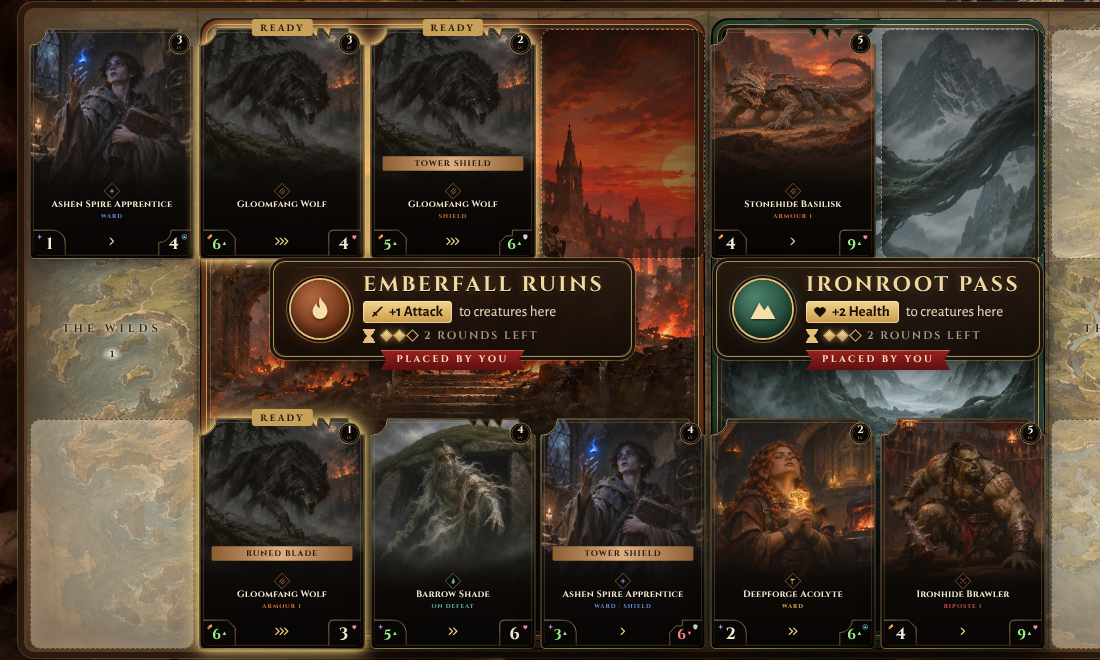
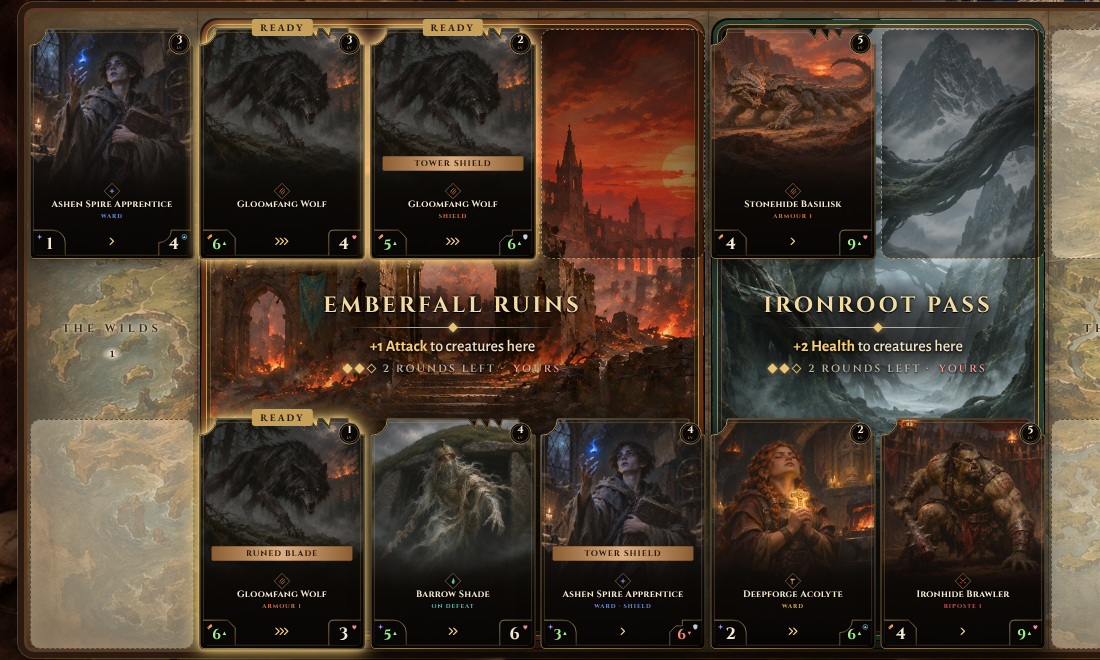
Prime Summons approved with Elliott's changes (+1/+1 Prime, +1 Renown, every other card on the curve); Location tiles label v2 (no box, no emblem), approved
Claude-Session: https://claude.ai/code/session_01PfomRVhR58QKPraFKdKkEq

Changed region(s): [[0.2164, 0.3636, 0.5873, 0.5758], [0.6491, 0.3636, 0.9582, 0.5758]]

diff --git a/docs/mockups/locations-v1/mock.css b/docs/mockups/locations-v1/mock.css
@@ -11,32 +11,19 @@
 .map .loc .pennant.mine { background: linear-gradient(#8f1d1d,#5a0f10); } .map .loc .pennant.theirs { background: linear-gradient(#24477e,#132a52); }
 .map .loc .pennant i { position:absolute; left:0; right:0; top:9px; text-align:center; color:#f1d9a0; font:700 13px Cinzel,serif; }
 .map .loc .pennant::after{content:'';position:absolute;inset:0 0 auto 0;height:5px;background:linear-gradient(#e6c47a,#9b7434);}
-.map .loc-label-wrap { top: 252px; z-index:5; }
+.map .loc-label-wrap { top: 266px; z-index:5; }
 .map .loc-label { display:none; }
-.lp { position:relative; display:flex; align-items:center; gap:14px; pointer-events:auto; padding:12px 26px 12px 16px; min-width:0; max-width:calc(100% - 20px);
-  background: linear-gradient(180deg, rgba(38,24,14,.97), rgba(20,12,7,.97)); border-radius:10px;
-  box-shadow: 0 0 0 1px rgba(0,0,0,.8), 0 0 0 2px rgba(226,190,120,.7), 0 0 0 5px rgba(20,12,7,.9), 0 0 0 6px rgba(226,190,120,.3), 0 14px 26px rgba(0,0,0,.65); }
-.lp::before { content:''; position:absolute; left:8px; right:8px; top:4px; height:1px; background:linear-gradient(90deg,transparent,rgba(226,190,120,.55),transparent); }
-.lp-seal { flex:none; width:58px; height:58px; border-radius:50%; display:grid; place-items:center;
-  background: radial-gradient(circle at 35% 30%, color-mix(in srgb, var(--tint) 85%, #fff 15%), color-mix(in srgb, var(--tint) 70%, #000) 70%);
-  box-shadow: 0 0 0 2px #e2be78, 0 0 0 4px #1a0f08, 0 0 0 5px rgba(226,190,120,.45), inset 0 -6px 12px rgba(0,0,0,.45), 0 0 18px color-mix(in srgb, var(--tint) 60%, transparent); }
-.lp-seal svg { width:30px; height:30px; fill:#f6dfa6; filter: drop-shadow(0 1px 1px rgba(0,0,0,.6)); }
-.lp-body { display:flex; flex-direction:column; gap:5px; min-width:0; }
-.lp-name { font:700 21px/1 Cinzel,serif; letter-spacing:2.5px; color:#f1d9a0; text-shadow:0 1px 0 #000, 0 0 10px rgba(241,190,100,.25); white-space:nowrap; }
-.lp-effect { font:400 15px/1.15 'Alegreya Sans',sans-serif; color:#e8dcc0; white-space:nowrap; display:flex; align-items:center; gap:7px; }
-.lp-effect b { display:inline-flex; align-items:center; gap:5px; padding:2px 9px 2px 7px; border-radius:4px; font:700 15px 'Alegreya Sans',sans-serif; color:#1a0f08;
-  background: linear-gradient(#f3d58f,#c99a4a); box-shadow: inset 0 0 0 1px rgba(255,240,200,.6); }
-.lp-effect b svg { width:14px; height:14px; fill:#1a0f08; }
-.lp-time { display:flex; align-items:center; gap:7px; font:600 11px Cinzel,serif; letter-spacing:2px; color:rgba(232,220,192,.7); white-space:nowrap; }
-.lp-time .pips { display:flex; gap:4px; } .lp-time .pips i { width:9px; height:9px; transform:rotate(45deg); border:1px solid #e2be78; }
-.lp-time .pips i.on { background: linear-gradient(135deg,#f6dfa6,#c99a4a); box-shadow:0 0 6px rgba(246,200,110,.6); }
-.lp-time svg { width:12px; height:14px; fill:#e2be78; }
-/* empty spaces on a tile: dark glass so the painting reads as ground */
-.map .slot-mock { position:absolute; border-radius:10px; z-index:2; pointer-events:none;
-  background: rgba(12,8,5,.30); border:1px dashed rgba(240,214,160,.45); box-shadow: inset 0 0 24px rgba(0,0,0,.35); }
-.map .wilds-mock-hide { display:none; }
-
-.map .empty-slot.on-tile { background: rgba(12,8,5,.34) !important; border:1px dashed rgba(240,214,160,.5) !important; box-shadow: inset 0 0 24px rgba(0,0,0,.4); border-radius:10px; }
-.lp-owner { position:absolute; left:50%; bottom:-15px; transform:translateX(-50%); padding:3px 16px 4px; font:700 9.5px Cinzel,serif; letter-spacing:2.5px; color:#f6e2b0; white-space:nowrap;
-  clip-path: polygon(0 0,100% 0,96% 50%,100% 100%,0 100%,4% 50%); box-shadow: inset 0 1px 0 rgba(255,220,150,.4); }
-.lp-owner.mine { background: linear-gradient(#9a2020,#5e1011); } .lp-owner.theirs { background: linear-gradient(#2a5290,#16305c); }
+.lp { position:relative; display:flex; flex-direction:column; align-items:center; gap:6px; pointer-events:auto; padding:18px 40px 16px; max-width:100%;
+  background: radial-gradient(ellipse 50% 50% at 50% 50%, rgba(8,5,3,.78) 0%, rgba(8,5,3,.55) 55%, rgba(8,5,3,0) 100%); }
+.lp-name { font:700 22px/1 Cinzel,serif; letter-spacing:3px; color:#f3dca2; white-space:nowrap;
+  text-shadow: 0 1px 0 #000, 0 0 3px rgba(0,0,0,.9), 0 0 16px rgba(0,0,0,.8); }
+.lp-rule { width:min(220px,80%); height:9px; position:relative; }
+.lp-rule::before { content:''; position:absolute; left:0; right:0; top:4px; height:1px; background:linear-gradient(90deg,transparent,rgba(232,196,122,.85) 30%,rgba(232,196,122,.85) 70%,transparent); }
+.lp-rule::after { content:''; position:absolute; left:50%; top:1px; width:7px; height:7px; transform:translateX(-50%) rotate(45deg); background:#e8c47a; box-shadow:0 0 6px rgba(232,196,122,.8); }
+.lp-effect { font:500 16px/1.1 'Alegreya Sans',sans-serif; color:#efe4c8; white-space:nowrap; text-shadow:0 1px 2px #000, 0 0 10px rgba(0,0,0,.9); }
+.lp-effect b { color:#f6cf74; font-weight:700; }
+.lp-time { display:flex; align-items:center; gap:8px; font:600 10.5px Cinzel,serif; letter-spacing:2.2px; color:rgba(239,228,200,.78); white-space:nowrap; text-shadow:0 1px 2px #000; }
+.lp-time .pips { display:flex; gap:5px; } .lp-time .pips i { width:7px; height:7px; transform:rotate(45deg); border:1px solid rgba(232,196,122,.9); }
+.lp-time .pips i.on { background:#e8c47a; box-shadow:0 0 5px rgba(246,200,110,.7); }
+.lp-time .own.mine { color:#ff9b8f; } .lp-time .own.theirs { color:#9cc0ff; }
+.map .empty-slot.on-tile { background: rgba(12,8,5,.30) !important; border:1px dashed rgba(240,214,160,.5) !important; box-shadow: inset 0 0 24px rgba(0,0,0,.4); border-radius:10px; }

diff --git a/docs/mockups/prime-v1/series.html b/docs/mockups/prime-v1/series.html
@@ -49,14 +49,14 @@ h1{font:700 30px Cinzel,serif;letter-spacing:6px;color:#f1d9a0;margin:0;position
 .legend b{color:#f1d9a0}
 </style></head><body>
 <h1>PRIME SUMMONS · ONE SERIES, SIX ROUNDS</h1>
-<div class="sub">Oathsworn Recruit series · Mid · Prime in Round 4 · proposed stats. Every copy of a series is at the same Level each Round, so its Prime is the same Round for everyone.</div>
+<div class="sub">Oathsworn Recruit series · Mid · Prime in Round 4 · approved stats. Every copy of a series is at the same Level each Round, so its Prime is the same Round for everyone.</div>
 <div class="row" id="row"></div>
 <div class="panel"><h2>THE SERIES CURVE · HOVER PREVIEW AND CODEX</h2><div class="hint">Shown when you hover a creature in hand or the Market, and under each series in the Codex. The bar is value against the curve for that Level: full on the curve, overflowing gold at Prime.</div><div class="strip" id="strip"></div></div>
 <div class="legend">
 <h3>READING IT</h3>
 <p><b>Rising</b> (silver tag) shows the Round its Prime arrives: hold it with Retain, or summon it early for tempo.</p>
-<p><b>Prime</b> (gold tag, foil frame, gold glow in hand) is the best value the series ever has: +3 stats on the curve, and any “Prime:” ability works.</p>
-<p><b>Waning</b> (muted tag) is past its best: a point below the curve, but its elder form brings a veteran’s ability.</p>
+<p><b>Prime</b> (gold tag, foil frame, gold glow in hand) is the series at its best: +1 Attack and +1 Health above the curve, +1 Renown when summoned, and any “Prime:” ability works.</p>
+<p><b>Waning</b> (muted tag) is past its best but still worth its Energy: on the curve, with its elder form’s ability.</p>
 <p>From Round 6 every card sits at its last Level for the rest of the match, so a series with its Prime last is a late-game threat, and one that peaks early is an opener.</p>
 </div>
 <script type="module">
@@ -67,8 +67,8 @@ defineCards(CARDS);
 const def = cardDef('oathsworn-recruit');
 const P = [
   {r:1,L:2,st:'Rising',form:'recruit',a:2,h:2},{r:2,L:3,st:'Rising',form:'recruit',a:2,h:3},
-  {r:3,L:4,st:'Rising',form:'captain',a:3,h:3},{r:4,L:5,st:'Prime',form:'captain',a:5,h:5},
-  {r:5,L:6,st:'Waning',form:'veteran',a:3,h:3},{r:6,L:7,st:'Waning',form:'veteran',a:3,h:4}];
+  {r:3,L:4,st:'Rising',form:'captain',a:3,h:3},{r:4,L:5,st:'Prime',form:'captain',a:4,h:5},
+  {r:5,L:6,st:'Waning',form:'veteran',a:3,h:4},{r:6,L:7,st:'Waning',form:'veteran',a:4,h:4}];
 const star='<svg viewBox="0 0 24 24"><path d="M12 2l3 7h7l-5.5 4.5 2 7.5L12 16.5 5.5 21l2-7.5L2 9h7z"/></svg>';
 const up='<svg viewBox="0 0 24 24"><path d="M12 4l9 12H3z"/></svg>';
 const down='<svg viewBox="0 0 24 24"><path d="M12 20 3 8h18z"/></svg>';

diff --git a/docs/12-prime-summons.md b/docs/12-prime-summons.md
@@ -1,6 +1,6 @@
 # Prime Summons and the new stat curve (proposal)
 
-**Status:** proposed by the design chat, 16 November 2026, from Elliott's idea. **Not yet approved.** Nothing here changes the rulebook until Elliott approves it; then it moves into docs/01-rulebook.md and docs/cards.json.
+**Status: approved (Elliott, 16 November 2026)** with his changes: a subtler Prime (+1 Attack, +1 Health), every non-Prime card worth its Energy, +1 Renown for a Prime summon, the name Prime kept, and no pace changes yet (match length will be monitored later). The build moves these rules into docs/01-rulebook.md and the cards into docs/cards.json.
 
 Mockup: `docs/mockups/prime-v1/series.html` (and `.png`).
 
@@ -19,18 +19,20 @@ Because a card's Level off the battlefield is set by the Round (rulebook section
 
 1. **Prime.** Each Character and Monster series names one Prime Level. The card's stage is Rising below it, Prime at it and Waning above it.
 2. **Three forms per series**, two Levels each: young (Levels 1–2 of the series), grown (3–4) and elder (5–6). The Prime can fall in any form: a prodigy peaks young, a late bloomer peaks old.
-3. **Stats follow one curve** (section 3). Prime is 3 points above it; Waning is 1 below.
+3. **Stats follow one curve** (section 3). Rising and Waning cards sit exactly on it; the Prime Level is +1 Attack and +1 Health above it.
 4. **"Prime:" abilities** work only if the creature was summoned at its Prime Level (for example "Prime: On Summon: Draw 2 cards").
 5. **New trigger, On Retain:** resolves when you Retain the card.
 6. **New keyword, Patient:** Retaining this card doesn't reduce your next draw.
-7. **Legendary cards and Legendary Creatures** are always Prime.
-8. **Foil** moves to the Prime Level (plus Legendaries), replacing "final form at its top Level".
-9. **Nothing else changes:** costs (`ceil(Level / 2)`), Levels by Round, the snapshot on summon, Retain's cost, combat and Renown.
+7. **Summoning at Prime gives +1 Renown** (increased by half in the Last Battle, like all Renown).
+8. **Legendary cards and Legendary Creatures** are always Prime.
+9. **Foil** moves to the Prime Level (plus Legendaries), replacing "final form at its top Level".
+10. **Nothing else changes:** costs (`ceil(Level / 2)`), Levels by Round, the snapshot on summon, Retain's cost, combat and Renown.
 
 ## 3. The stat curve (closer to Hearthstone)
 
 - **On the curve,** a creature's Attack plus Health is **Level + 2**: Level 1 = 3, Level 4 = 6, Level 8 = 10. By Energy that's about 3 for 1, 5–6 for 2, 7–8 for 3 and 9–10 for 4, Hearthstone's familiar "2 × cost + 1".
-- **Prime** +3, **Waning** −1. **One ability** (a keyword or trigger) costs 1 point.
+- **Every non-Prime card is exactly on the curve,** counting its abilities: one ability (a keyword or a trigger; Shield and Ward are free) costs 1 point. So every Level is worth its Energy.
+- **Prime** is +1 Attack and +1 Health on top, plus +1 Renown and any "Prime:" ability. A Prime's own "Prime:" ability is free; its other abilities cost as usual.
 - **The split by Speed:** Swift leans to Attack, Steady is even, Slow leans to Health.
 - **Results:** most creatures have 1–6 in each stat, so 1 point decides fights. Firebolt, Flask of Wildfire and On Summon damage kill things again. Typical Health falls from 6–11 to 2–6.
 - **Legendaries:** The Ashen Wyrm 6 / 6 (cost 5), Aldric the Unbroken 6 / 6 with Shield and Armour 1.
@@ -50,47 +52,47 @@ Primes across the deck: Round 1 (1 series), Round 2 (2), Round 3 (1), Round 4 (3
 
 ## 5. How it shows
 
-- **On the card:** a small tag under the Level well. Rising: silver, "▲ PRIME · ROUND 4". Prime: gold, "★ PRIME", the foil frame, and a gold glow in hand. Waning: muted, "▼ PAST PRIME".
+- **On the card:** a small tag under the Level well. Rising: silver, "▲ PRIME · ROUND 4". Prime: gold, "★ PRIME", the foil frame, and a gold glow in hand. Waning: muted, "▼ PAST PRIME". (Rising and Waning are names for the build and docs; on cards only Prime is named.)
 - **Hover preview and Codex:** the series curve strip, six cells (Round, form, Attack / Health, Energy, Level, a value bar against the curve), with the Prime in gold and "NOW" over this Round.
 - **Summoning at Prime** gets its own short moment (gold burst on the card and the Level well, a distinct sound in V4).
 - **At Dusk:** a card that reaches its Prime next Round shows "Prime next Round" on its Retain button.
 
-## 6. Every series, proposed
+## 6. Every series
 
-Numbers come from the rules in section 3; the build may move a stat by 1 where a card plays badly, and lists any change.
+Numbers come from the rules in section 3; the build may move a stat by 1 between Attack and Health where a card plays badly (never its total), and lists any change.
 
 **cinderwick-prodigy** · Gnome Wizard (new) · Light · Swift · Arcane · **Prime in Round 1**
 
 | Round | Level | Energy | Stage | Form | Attack / Health | Abilities |
 |---|---|---|---|---|---|---|
-| 1 | 1 | 1 | **Prime** | Cinderwick Prodigy | 3 / 3 | Prime: On Summon: 2 damage to an enemy creature. |
-| 2 | 2 | 1 | Waning | Cinderwick Prodigy | 2 / 1 | Prime: On Summon: 2 damage to an enemy creature. |
-| 3 | 3 | 2 | Waning | Cinderwick Adept | 2 / 2 | – |
-| 4 | 4 | 2 | Waning | Cinderwick Adept | 3 / 2 | – |
-| 5 | 5 | 3 | Waning | Cinderwick Hermit | 3 / 2 | On Summon: 1 damage to an enemy creature. |
-| 6 | 6 | 3 | Waning | Cinderwick Hermit | 3 / 3 | On Summon: 1 damage to an enemy creature. |
+| 1 | 1 | 1 | **Prime** | Cinderwick Prodigy | 3 / 2 | Prime: On Summon: 2 damage to an enemy creature. |
+| 2 | 2 | 1 | Waning | Cinderwick Prodigy | 2 / 2 | Prime: On Summon: 2 damage to an enemy creature. |
+| 3 | 3 | 2 | Waning | Cinderwick Adept | 3 / 2 | – |
+| 4 | 4 | 2 | Waning | Cinderwick Adept | 3 / 3 | – |
+| 5 | 5 | 3 | Waning | Cinderwick Hermit | 3 / 3 | On Summon: 1 damage to an enemy creature. |
+| 6 | 6 | 3 | Waning | Cinderwick Hermit | 4 / 3 | On Summon: 1 damage to an enemy creature. |
 
 **hollowfoot-cutpurse** · Halfling Rogue · Light · Swift · Martial · **Prime in Round 2**
 
 | Round | Level | Energy | Stage | Form | Attack / Health | Abilities |
 |---|---|---|---|---|---|---|
 | 1 | 1 | 1 | Rising | Hollowfoot Cutpurse | 1 / 1 | Ambush |
-| 2 | 2 | 1 | **Prime** | Hollowfoot Cutpurse | 3 / 3 | Ambush |
-| 3 | 3 | 2 | Waning | Hollowfoot Knifemaster | 2 / 1 | Ambush |
-| 4 | 4 | 2 | Waning | Hollowfoot Knifemaster | 2 / 2 | Ambush |
-| 5 | 5 | 3 | Waning | Hollowfoot Fence | 3 / 2 | On Retain: gain 1 Gold. |
-| 6 | 6 | 3 | Waning | Hollowfoot Fence | 3 / 3 | On Retain: gain 1 Gold. |
+| 2 | 2 | 1 | **Prime** | Hollowfoot Cutpurse | 3 / 2 | Ambush |
+| 3 | 3 | 2 | Waning | Hollowfoot Knifemaster | 2 / 2 | Ambush |
+| 4 | 4 | 2 | Waning | Hollowfoot Knifemaster | 3 / 2 | Ambush |
+| 5 | 5 | 3 | Waning | Hollowfoot Fence | 3 / 3 | On Retain: gain 1 Gold. |
+| 6 | 6 | 3 | Waning | Hollowfoot Fence | 4 / 3 | On Retain: gain 1 Gold. |
 
 **ironhide-brawler** · Orc Fighter · Heavy · Slow · Martial · **Prime in Round 2**
 
 | Round | Level | Energy | Stage | Form | Attack / Health | Abilities |
 |---|---|---|---|---|---|---|
 | 1 | 3 | 2 | Rising | Ironhide Brawler | 1 / 3 | Riposte 1 |
-| 2 | 4 | 2 | **Prime** | Ironhide Brawler | 3 / 5 | Riposte 1 |
-| 3 | 5 | 3 | Waning | Ironhide Champion | 2 / 3 | Riposte 2 |
-| 4 | 6 | 3 | Waning | Ironhide Champion | 2 / 4 | Riposte 2 |
-| 5 | 7 | 4 | Waning | Ironhide Warchief | 3 / 4 | Riposte 2 |
-| 6 | 8 | 4 | Waning | Ironhide Warchief | 3 / 5 | Riposte 2 |
+| 2 | 4 | 2 | **Prime** | Ironhide Brawler | 3 / 4 | Riposte 1 |
+| 3 | 5 | 3 | Waning | Ironhide Champion | 2 / 4 | Riposte 2 |
+| 4 | 6 | 3 | Waning | Ironhide Champion | 3 / 4 | Riposte 2 |
+| 5 | 7 | 4 | Waning | Ironhide Warchief | 3 / 5 | Riposte 2 |
+| 6 | 8 | 4 | Waning | Ironhide Warchief | 4 / 5 | Riposte 2 |
 
 **gloomfang-wolf** · Beast · Light · Swift · Martial · **Prime in Round 3**
 
@@ -98,10 +100,10 @@ Numbers come from the rules in section 3; the build may move a stat by 1 where a
 |---|---|---|---|---|---|---|
 | 1 | 1 | 1 | Rising | Gloomfang Whelp | 2 / 1 | – |
 | 2 | 2 | 1 | Rising | Gloomfang Whelp | 2 / 2 | – |
-| 3 | 3 | 2 | **Prime** | Gloomfang Wolf | 4 / 4 | – |
-| 4 | 4 | 2 | Waning | Gloomfang Wolf | 3 / 2 | – |
-| 5 | 5 | 3 | Waning | Gloomfang Alpha | 3 / 2 | Ambush |
-| 6 | 6 | 3 | Waning | Gloomfang Alpha | 3 / 3 | Ambush |
+| 3 | 3 | 2 | **Prime** | Gloomfang Wolf | 4 / 3 | – |
+| 4 | 4 | 2 | Waning | Gloomfang Wolf | 3 / 3 | – |
+| 5 | 5 | 3 | Waning | Gloomfang Alpha | 3 / 3 | Ambush |
+| 6 | 6 | 3 | Waning | Gloomfang Alpha | 4 / 3 | Ambush |
 
 **oathsworn-recruit** · Human Fighter · Mid · Steady · Martial · Shield · **Prime in Round 4**
 
@@ -110,9 +112,9 @@ Numbers come from the rules in section 3; the build may move a stat by 1 where a
 | 1 | 2 | 1 | Rising | Oathsworn Recruit | 2 / 2 | – |
 | 2 | 3 | 2 | Rising | Oathsworn Recruit | 2 / 3 | – |
 | 3 | 4 | 2 | Rising | Oathsworn Captain | 3 / 3 | – |
-| 4 | 5 | 3 | **Prime** | Oathsworn Captain | 5 / 5 | – |
-| 5 | 6 | 3 | Waning | Oathsworn Veteran | 3 / 3 | Armour 1 |
-| 6 | 7 | 4 | Waning | Oathsworn Veteran | 3 / 4 | Armour 1 |
+| 4 | 5 | 3 | **Prime** | Oathsworn Captain | 4 / 5 | – |
+| 5 | 6 | 3 | Waning | Oathsworn Veteran | 3 / 4 | Armour 1 |
+| 6 | 7 | 4 | Waning | Oathsworn Veteran | 4 / 4 | Armour 1 |
 
 **ashen-spire-apprentice** · Human Wizard · Heavy · Slow · Arcane · Ward · **Prime in Round 4**
 
@@ -121,9 +123,9 @@ Numbers come from the rules in section 3; the build may move a stat by 1 where a
 | 1 | 3 | 2 | Rising | Ashen Spire Apprentice | 1 / 3 | On Summon: 1 damage to an enemy creature. |
 | 2 | 4 | 2 | Rising | Ashen Spire Apprentice | 2 / 3 | On Summon: 1 damage to an enemy creature. |
 | 3 | 5 | 3 | Rising | Spire Magus | 2 / 4 | On Summon: 2 damage to an enemy creature. |
-| 4 | 6 | 3 | **Prime** | Spire Magus | 4 / 6 | On Summon: 2 damage to an enemy creature. |
-| 5 | 7 | 4 | Waning | Archmagus of the Ashen Spire | 3 / 4 | On Summon: 3 damage to an enemy creature. |
-| 6 | 8 | 4 | Waning | Archmagus of the Ashen Spire | 3 / 5 | On Summon: 3 damage to an enemy creature. |
+| 4 | 6 | 3 | **Prime** | Spire Magus | 4 / 5 | On Summon: 2 damage to an enemy creature. |
+| 5 | 7 | 4 | Waning | Archmagus of the Ashen Spire | 3 / 5 | On Summon: 3 damage to an enemy creature. |
+| 6 | 8 | 4 | Waning | Archmagus of the Ashen Spire | 4 / 5 | On Summon: 3 damage to an enemy creature. |
 
 **stonehide-basilisk** · Beast · Heavy · Slow · Martial · **Prime in Round 4**
 
@@ -132,9 +134,9 @@ Numbers come from the rules in section 3; the build may move a stat by 1 where a
 | 1 | 3 | 2 | Rising | Stonehide Hatchling | 2 / 3 | – |
 | 2 | 4 | 2 | Rising | Stonehide Hatchling | 2 / 4 | – |
 | 3 | 5 | 3 | Rising | Stonehide Basilisk | 2 / 4 | Armour 1 |
-| 4 | 6 | 3 | **Prime** | Stonehide Basilisk | 4 / 6 | Armour 1 |
-| 5 | 7 | 4 | Waning | Elder Stonehide | 3 / 4 | Armour 1 |
-| 6 | 8 | 4 | Waning | Elder Stonehide | 3 / 5 | Armour 1 |
+| 4 | 6 | 3 | **Prime** | Stonehide Basilisk | 4 / 5 | Armour 1 |
+| 5 | 7 | 4 | Waning | Elder Stonehide | 3 / 5 | Armour 1 |
+| 6 | 8 | 4 | Waning | Elder Stonehide | 4 / 5 | Armour 1 |
 
 **deepforge-acolyte** · Dwarf Cleric · Mid · Steady · Arcane · Ward · **Prime in Round 5**
 
@@ -144,8 +146,8 @@ Numbers come from the rules in section 3; the build may move a stat by 1 where a
 | 2 | 3 | 2 | Rising | Deepforge Acolyte | 2 / 2 | On Summon: Heal 2 to one of your creatures. |
 | 3 | 4 | 2 | Rising | Deepforge Priest | 2 / 3 | On Summon: Heal 3 to each of your creatures in its Location. |
 | 4 | 5 | 3 | Rising | Deepforge Priest | 3 / 3 | On Summon: Heal 3 to each of your creatures in its Location. |
-| 5 | 6 | 3 | **Prime** | Deepforge High Priest | 5 / 5 | On Summon: Heal 3 to each of your creatures in its Location. |
-| 6 | 7 | 4 | Waning | Deepforge High Priest | 3 / 4 | On Summon: Heal 3 to each of your creatures in its Location. |
+| 5 | 6 | 3 | **Prime** | Deepforge High Priest | 4 / 5 | On Summon: Heal 3 to each of your creatures in its Location. |
+| 6 | 7 | 4 | Waning | Deepforge High Priest | 4 / 4 | On Summon: Heal 3 to each of your creatures in its Location. |
 
 **barrow-shade** · Undead · Mid · Steady · Arcane · **Prime in Round 5**
 
@@ -155,18 +157,18 @@ Numbers come from the rules in section 3; the build may move a stat by 1 where a
 | 2 | 3 | 2 | Rising | Barrow Wisp | 2 / 3 | On Defeat: 1 damage to the enemy across from it. |
 | 3 | 4 | 2 | Rising | Barrow Shade | 2 / 3 | On Defeat: 2 damage to the enemy across from it. |
 | 4 | 5 | 3 | Rising | Barrow Shade | 3 / 3 | On Defeat: 2 damage to the enemy across from it. |
-| 5 | 6 | 3 | **Prime** | Barrow Lord | 5 / 5 | On Defeat: 3 damage to the enemy across from it. |
-| 6 | 7 | 4 | Waning | Barrow Lord | 3 / 4 | On Defeat: 3 damage to the enemy across from it. |
+| 5 | 6 | 3 | **Prime** | Barrow Lord | 4 / 5 | On Defeat: 3 damage to the enemy across from it. |
+| 6 | 7 | 4 | Waning | Barrow Lord | 4 / 4 | On Defeat: 3 damage to the enemy across from it. |
 
 **duskmere-oracle** · Elf Seer (new) · Mid · Slow · Arcane · Ward · **Prime in Round 5**
 
 | Round | Level | Energy | Stage | Form | Attack / Health | Abilities |
 |---|---|---|---|---|---|---|
-| 1 | 2 | 1 | Rising | Duskmere Novice | 1 / 3 | Patient |
-| 2 | 3 | 2 | Rising | Duskmere Novice | 2 / 3 | Patient |
-| 3 | 4 | 2 | Rising | Duskmere Oracle | 2 / 4 | Patient |
-| 4 | 5 | 3 | Rising | Duskmere Oracle | 3 / 4 | Patient |
-| 5 | 6 | 3 | **Prime** | Duskmere Sibyl | 5 / 6 | Patient. Prime: On Summon: Draw 2 cards. |
+| 1 | 2 | 1 | Rising | Duskmere Novice | 1 / 2 | Patient |
+| 2 | 3 | 2 | Rising | Duskmere Novice | 1 / 3 | Patient |
+| 3 | 4 | 2 | Rising | Duskmere Oracle | 2 / 3 | Patient |
+| 4 | 5 | 3 | Rising | Duskmere Oracle | 2 / 4 | Patient |
+| 5 | 6 | 3 | **Prime** | Duskmere Sibyl | 4 / 5 | Patient. Prime: On Summon: Draw 2 cards. |
 | 6 | 7 | 4 | Waning | Duskmere Sibyl | 3 / 5 | Patient. Prime: On Summon: Draw 2 cards. |
 
 **thornwood-scout** · Elf Ranger · Light · Swift · Martial · **Prime in Round 6**
@@ -178,7 +180,7 @@ Numbers come from the rules in section 3; the build may move a stat by 1 where a
 | 3 | 3 | 2 | Rising | Thornwood Pathfinder | 2 / 2 | On Summon: Draw 1 card. |
 | 4 | 4 | 2 | Rising | Thornwood Pathfinder | 3 / 2 | On Summon: Draw 1 card. |
 | 5 | 5 | 3 | Rising | Thornwood Warden | 3 / 3 | On Summon: Draw 1 card. |
-| 6 | 6 | 3 | **Prime** | Thornwood Warden | 5 / 5 | On Summon: Draw 1 card. |
+| 6 | 6 | 3 | **Prime** | Thornwood Warden | 5 / 4 | On Summon: Draw 1 card. |
 
 **mossback-ancient** · Treant (new Kind) · Heavy · Slow · Martial · Shield · **Prime in Round 6**
 
@@ -188,15 +190,17 @@ Numbers come from the rules in section 3; the build may move a stat by 1 where a
 | 2 | 4 | 2 | Rising | Mossback Sapling | 2 / 4 | – |
 | 3 | 5 | 3 | Rising | Mossback Treant | 3 / 4 | – |
 | 4 | 6 | 3 | Rising | Mossback Treant | 3 / 5 | – |
-| 5 | 7 | 4 | Rising | Mossback Ancient | 4 / 5 | Patient. Prime: On Summon: 1 damage to each enemy creature in its Location. |
-| 6 | 8 | 4 | **Prime** | Mossback Ancient | 6 / 7 | Patient. Prime: On Summon: 1 damage to each enemy creature in its Location. |
+| 5 | 7 | 4 | Rising | Mossback Ancient | 3 / 5 | Patient. Prime: On Summon: 1 damage to each enemy creature in its Location. |
+| 6 | 8 | 4 | **Prime** | Mossback Ancient | 5 / 6 | Patient. Prime: On Summon: 1 damage to each enemy creature in its Location. |
+
 ## 7. Art needed
 
 17 new illustrations, prompts in `docs/13-prime-art-prompts.md`. Existing art is reused where the forms line up; the rest show Art Pending until they arrive.
 
-## 8. Open questions for Elliott
+## 8. Decided (16 November 2026)
 
-1. Names: **Prime / Rising / Waning**, **Patient**, **On Retain**, "Prime:" abilities. Alternatives: Peak or Heyday for Prime; Seasoned for Waning.
-2. **Waning at −1** (gentle, with elder abilities) or −2 (sharper peaks)?
-3. **Should a Prime summon also give Renown** (for example +1), or is the value enough?
-4. **Pace:** if matches run longer with the smaller stats, change Renown values, the Last Battle trigger, or leave it?
+1. Names: **Prime** kept; Rising and Waning, Patient and On Retain used for now.
+2. The Prime boon is subtle: +1 Attack, +1 Health.
+3. Every non-Prime card is on the curve, abilities included.
+4. A Prime summon gives +1 Renown.
+5. Pace: no changes; match length is measured and monitored later.

diff --git a/docs/mockups/locations-v1/README.md b/docs/mockups/locations-v1/README.md
@@ -7,6 +7,8 @@ Elliott's feedback: Locations should look like tiles laid on the overworld map, 
 
 **The tile:** the Location's art at full strength, clipped to a rounded tile with a dark edge, a brass hairline and an outer rim in the Location's colour, a darker base edge so it sits raised on the map, and a drop shadow. A soft vignette at the top and bottom keeps the cards readable. Empty spaces on a tile are dark glass with a dashed brass outline.
 
-**The plaque:** a dark leather panel with brass rims. A round seal in the Location's colour carries its emblem. The name is in gold Cinzel; the effect is a gold chip ("+1 Attack") then "to creatures here"; an hourglass with one diamond per Round shows the Rounds left; a ribbon under it says who placed it, crimson for you and blue for the enemy.
+**The label (v2, after Elliott's notes):** no box and no emblem. The name sits straight on the painting in gold Cinzel, over a soft dark glow that fades out at every edge so the art shows around it. Under it: a fine brass rule with a small diamond, the effect with its number in gold ("**+1 Attack** to creatures here"), and a line of diamonds for the Rounds left, then "2 ROUNDS LEFT · YOURS", with "YOURS" in your colour (crimson) or "ENEMY'S" in blue.
+
+**Approved by Elliott, 16 November 2026, with those changes.**
 
 The effect wording and the emblem come from the card data in the build; the mockup typed them.
